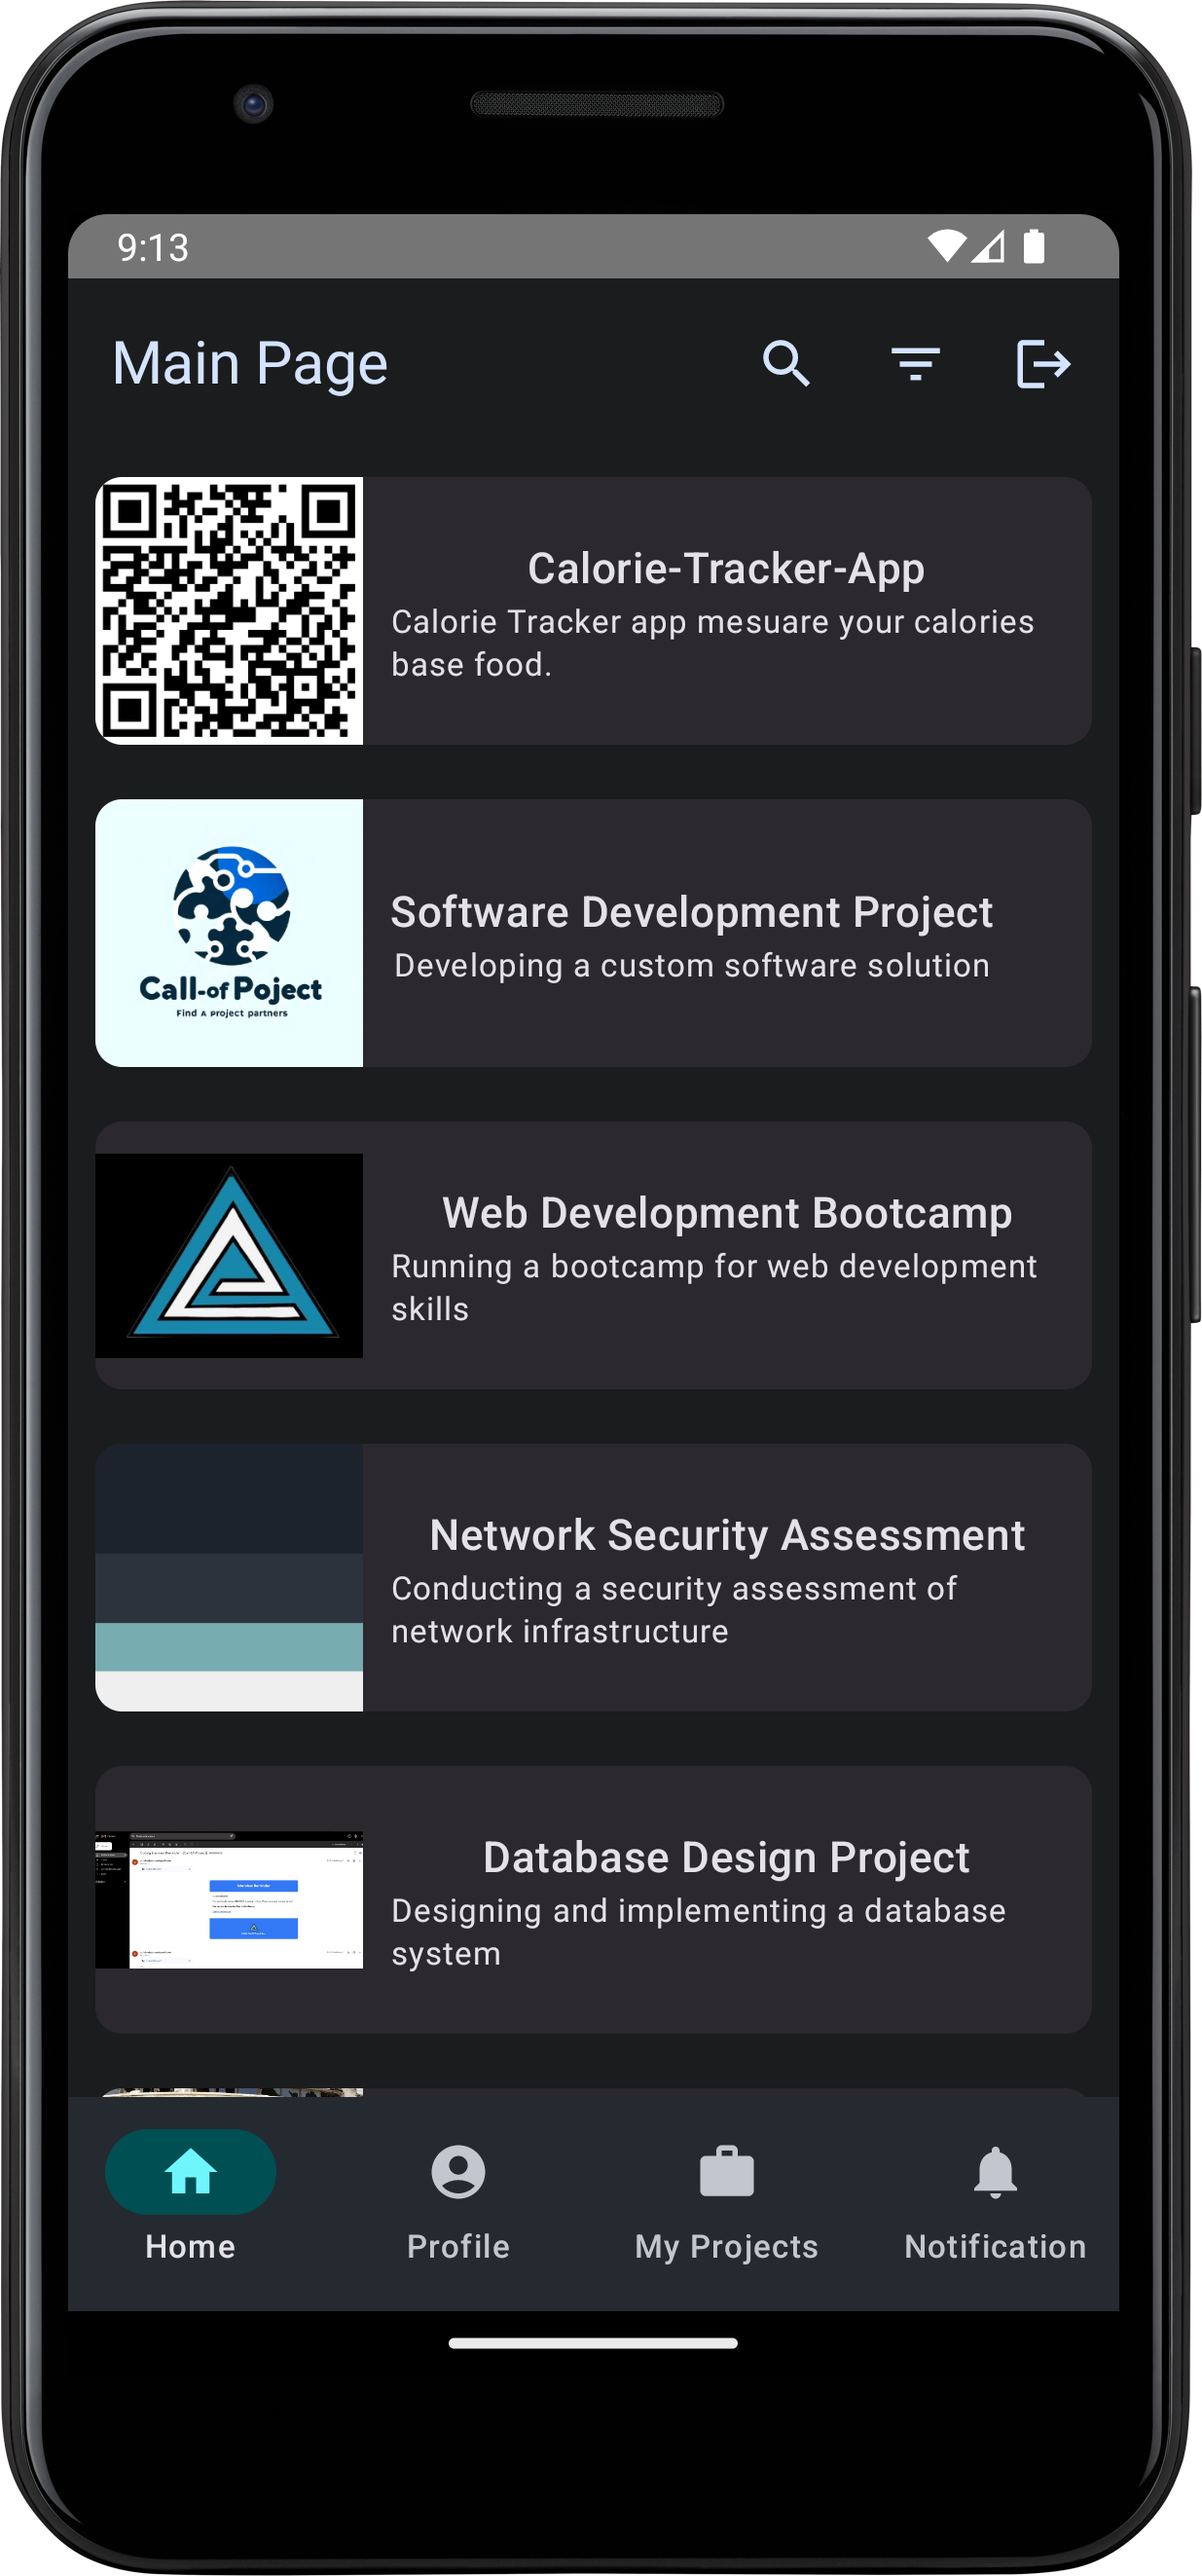
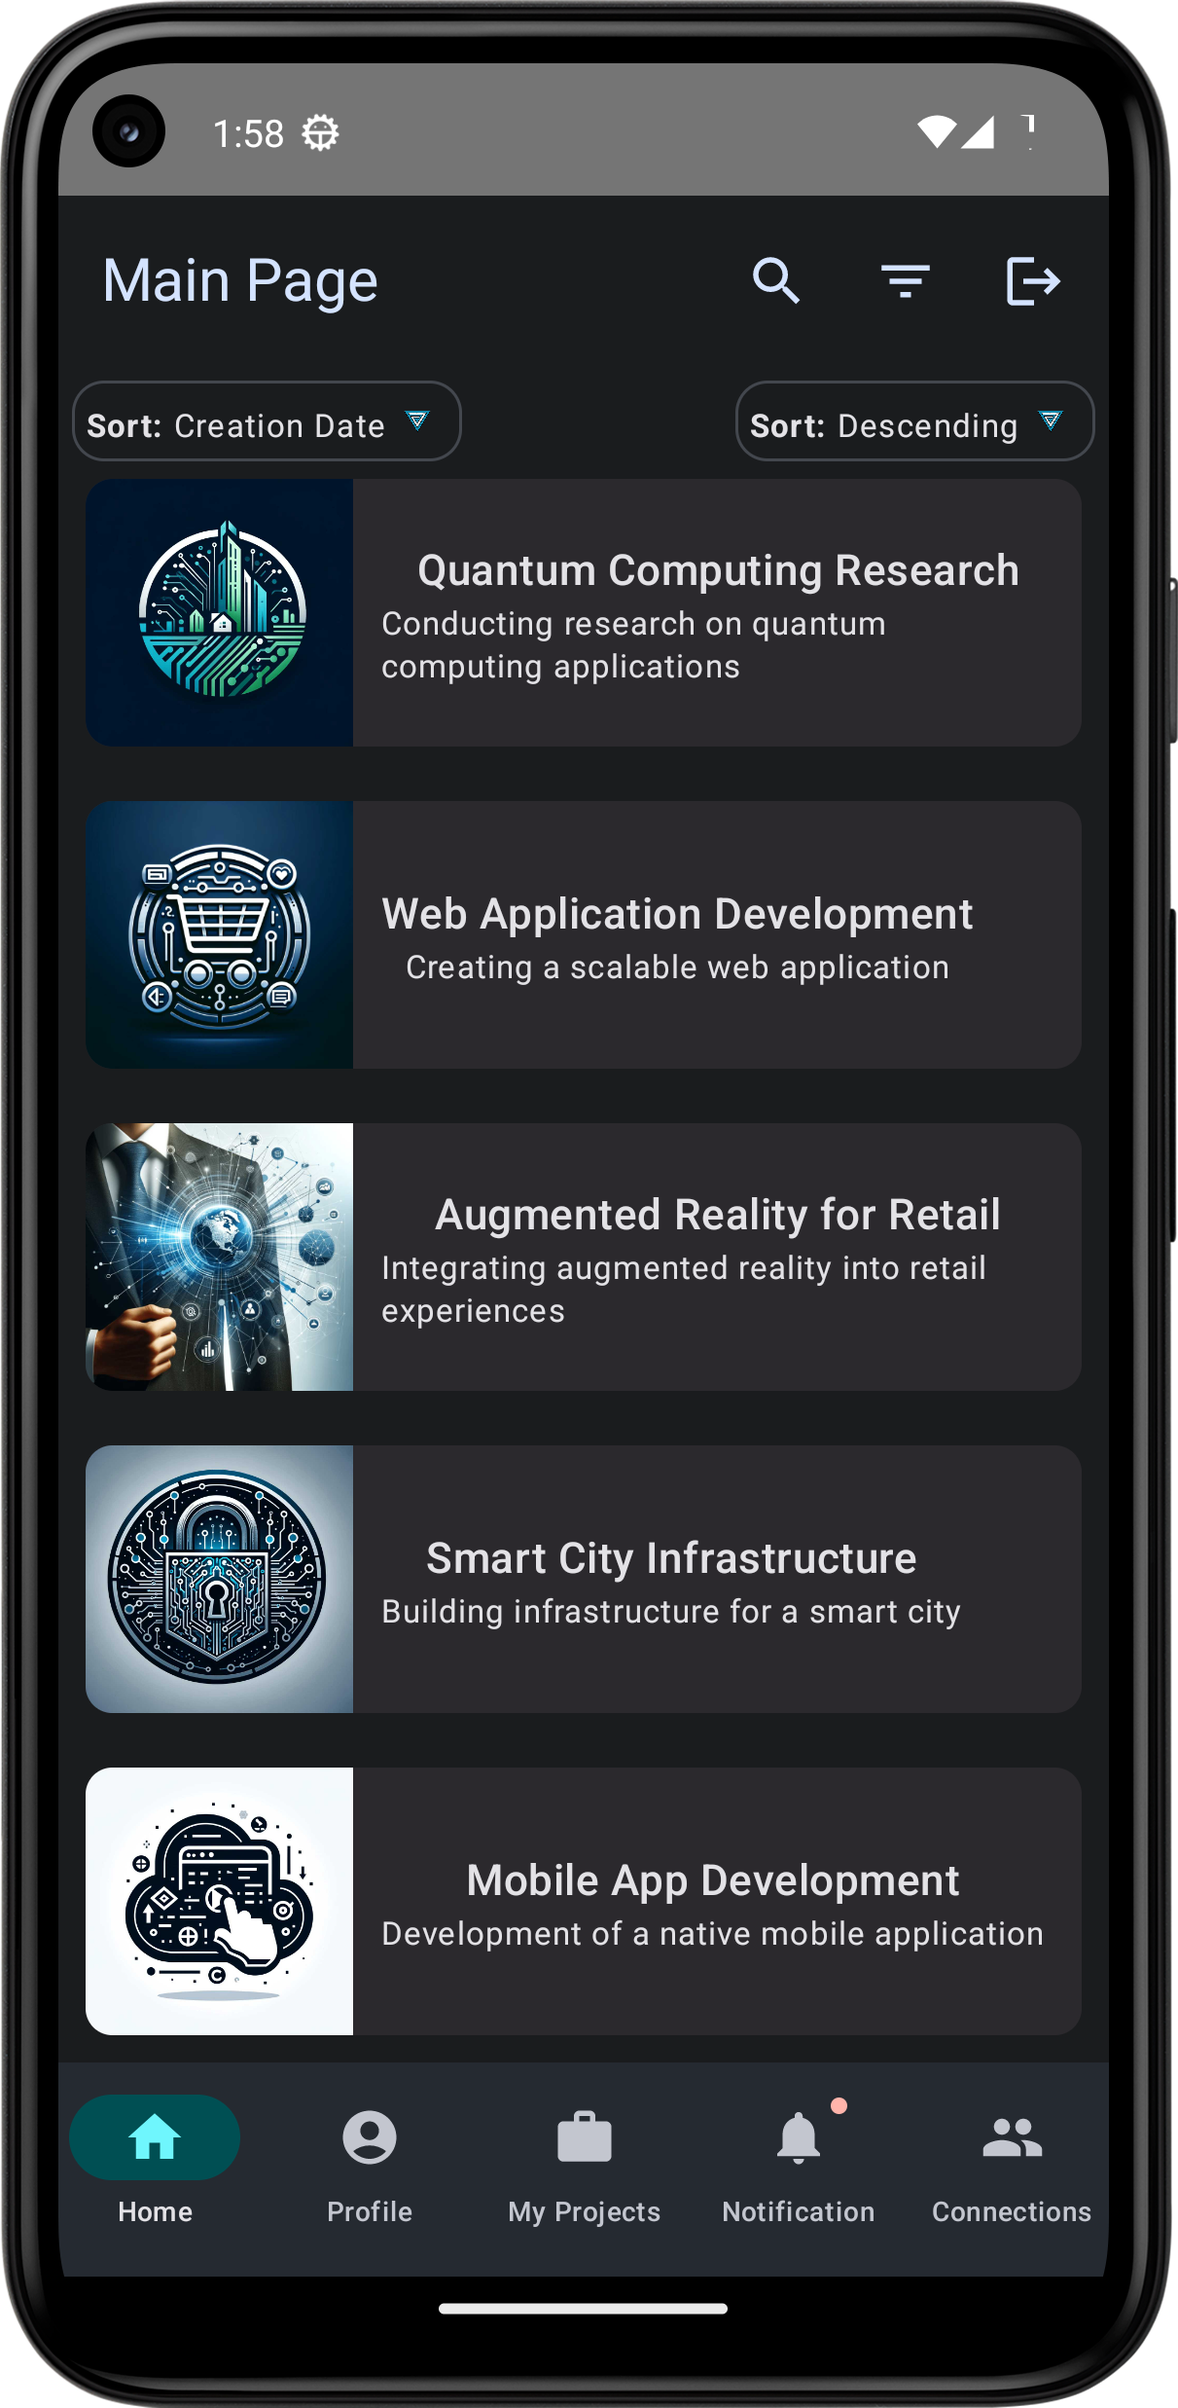
update

diff --git a/CallofProjectAndroid/app/src/main/java/callofproject/dev/androidapp/presentation/main_page/MainScreen.kt b/CallofProjectAndroid/app/src/main/java/callofproject/dev/androidapp/presentation/main_page/MainScreen.kt
@@ -168,20 +168,24 @@ fun MainScreen(
                                 horizontalAlignment = Alignment.CenterHorizontally,
                                 modifier = Modifier.padding(10.dp),
                                 content = {
-                                    Row {
-                                        Text(
-                                            text = state.projectDiscoveryList[it].projectTitle,
-                                            style = MaterialTheme.typography.titleMedium,
-                                            textAlign = TextAlign.Center
-                                        )
-                                        Text(
-                                            text = "-" + state.projectDiscoveryList[it].creationDate,
-                                            style = MaterialTheme.typography.titleMedium,
-                                            textAlign = TextAlign.Center,
-                                            fontWeight = FontWeight.Normal,
-                                            fontSize = 12.sp,
-                                        )
-                                    }
+                                    Text(
+                                        text = state.projectDiscoveryList[it].projectTitle,
+                                        style = MaterialTheme.typography.titleMedium,
+                                        textAlign = TextAlign.Center
+                                    )
+                                    Text(
+                                        text = when (selectedSortOption.value) {
+                                            SORT_CREATION_DATE -> state.projectDiscoveryList[it].creationDate
+                                            SORT_START_DATE -> state.projectDiscoveryList[it].startDate
+                                            SORT_APPLICATION_DEADLINE -> state.projectDiscoveryList[it].applicationDeadline
+                                            SORT_EXPECTED_COMPLETION_DATE -> state.projectDiscoveryList[it].expectedCompletionDate
+                                            else -> state.projectDiscoveryList[it].creationDate
+                                        },
+                                        style = MaterialTheme.typography.titleMedium,
+                                        textAlign = TextAlign.Center,
+                                        fontWeight = FontWeight.Normal,
+                                        fontSize = 12.sp,
+                                    )
                                     Text(
                                         text = state.projectDiscoveryList[it].projectSummary,
                                         style = MaterialTheme.typography.bodySmall,

diff --git a/CallofProjectAndroid/app/src/main/java/callofproject/dev/androidapp/presentation/main_page/MainPageViewModel.kt b/CallofProjectAndroid/app/src/main/java/callofproject/dev/androidapp/presentation/main_page/MainPageViewModel.kt
@@ -1,5 +1,6 @@
 package callofproject.dev.androidapp.presentation.main_page
 
+import androidx.compose.runtime.MutableState
 import androidx.compose.runtime.getValue
 import androidx.compose.runtime.mutableStateOf
 import androidx.compose.runtime.setValue
@@ -7,6 +8,7 @@ import androidx.lifecycle.ViewModel
 import androidx.lifecycle.viewModelScope
 import callofproject.dev.androidapp.R
 import callofproject.dev.androidapp.di.interceptor.LocalDateFormatterInterceptor
+import callofproject.dev.androidapp.domain.dto.project.ProjectDiscoveryDTO
 import callofproject.dev.androidapp.domain.preferences.IPreferences
 import callofproject.dev.androidapp.domain.use_cases.UseCaseFacade
 import callofproject.dev.androidapp.util.Resource
@@ -100,6 +102,7 @@ class MainPageViewModel @Inject constructor(
             }
         }
     }
+
     // Default sort is by creation date and descending
     private fun sortProjects(sortType: String) {
         when (sortType) {
@@ -137,12 +140,12 @@ class MainPageViewModel @Inject constructor(
         }
 
     }
+
     private fun navigateToProjectOverview(projectId: String) {
         viewModelScope.launch {
             _uiEvent.send(UiEvent.Navigate("${Route.PROJECT_OVERVIEW}/${projectId}/0"))
         }
     }
-
 
 
     private fun findProjectDiscovery() {
@@ -187,5 +190,4 @@ class MainPageViewModel @Inject constructor(
     private fun startWebSocket() = webSocketClient.connectWebSocket()
 
     private fun toLocalDate(date: String): LocalDate = LocalDate.parse(date, dateTimeFormatter)
-
 }

diff --git a/README.md b/README.md
@@ -59,6 +59,7 @@ The application uses the following dependencies:
 <img width="200" src="./images/theme/dark/filter_project.png">
 <img width="200" src="./images/theme/dark/search_1.png">
 <img width="200" src="./images/theme/dark/search_2.png">
+<img width="200" src="./images/theme/dark/notifications_dark.png">
 </p>
 
 ### Light Theme
@@ -69,6 +70,7 @@ The application uses the following dependencies:
 <img width="200" src="./images/theme/light/profile.png">
 <img width="200" src="./images/theme/light/my_projects.png">
 <img width="200" src="./images/theme/light/project_filter.png">
+<img width="200" src="./images/theme/light/notifications_light.png">
 </p>
 
 ## Sample Video
